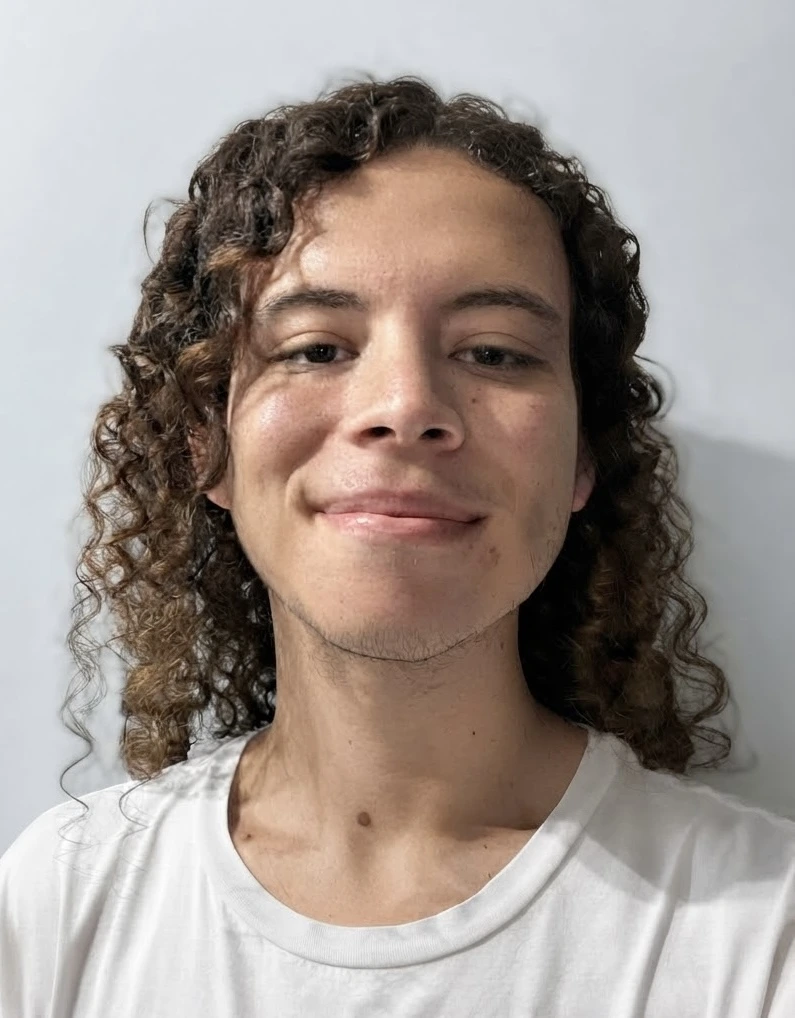
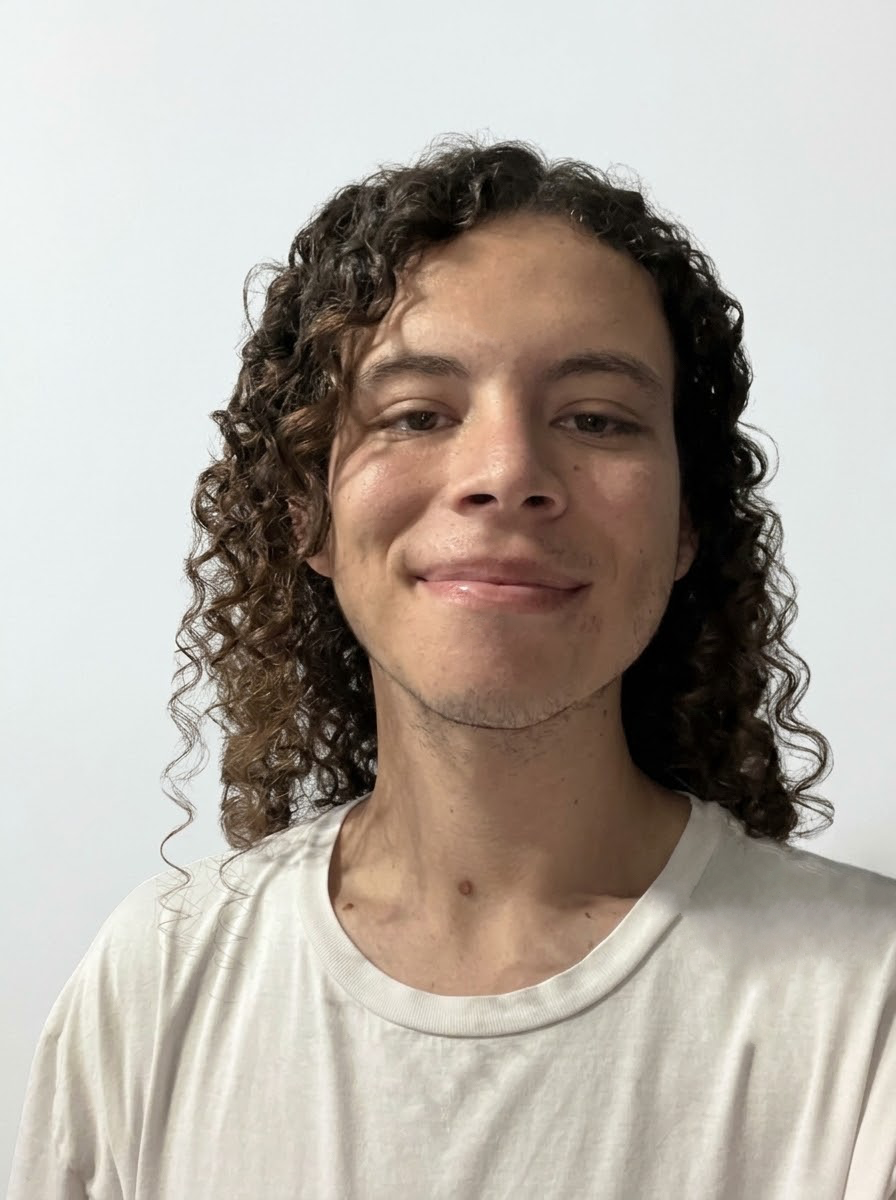
more minor changes

diff --git a/src/scripts/main.js b/src/scripts/main.js
@@ -4,7 +4,7 @@ const content = {
       role: "Ingeniero de Software Junior · Full Stack",
       location: "Alajuela, Costa Rica",
       about: "Sobre mí",
-      aboutText: "Soy una persona apasionada por la tecnología, la música y los deportes, me gusta crear interfaces limpias, aplicaciones mantenibles y resolver problemas. Me gusta trabajar con código claro, buenas prácticas y una experiencia de usuario bien cuidada.",
+      aboutText: "Soy una persona apasionada por la tecnología, la música y los deportes, me gusta crear software y aplicaciones que ayuden a las personas y resolver problemas.",
       technology: "Tecnologías",
       experience: "Experiencia",
       projects: "Proyectos",
@@ -82,7 +82,7 @@ const content = {
       role: "Junior Software Engineer · Full Stack",
       location: "Alajuela, Costa Rica",
       about: "About me",
-      aboutText: "I'm passionate about technology, music and sports; I enjoy building clean interfaces, maintainable applications and solving problems. I like working with clear code, good practices and a well-crafted user experience.",
+      aboutText: "I'm passionate about technology, music and sports; I enjoy building software and applications that help people and solve problems.",
       technology: "Technologies",
       experience: "Experience",
       projects: "Projects",

diff --git a/src/styles/main.css b/src/styles/main.css
@@ -95,10 +95,10 @@ main {
 .avatar {
   display: grid;
   flex: 0 0 auto;
-  width: 100px;
-  height: 100px;
+  width: 116px;
+  height: 116px;
   place-items: center;
-  margin-top: 20px;
+  margin-top: 16px;
   border: 4px solid var(--teal-tint-2);
   border-radius: 999px;
   overflow: hidden;
@@ -116,7 +116,8 @@ main {
   height: 100%;
   border-radius: inherit;
   object-fit: cover;
-  object-position: center 25%;
+  object-position: center 70%;
+  transform: translateX(-5px) scale(1.20);
 }
 
 .eyebrow {
@@ -482,8 +483,8 @@ h2 {
   }
 
   .avatar {
-    width: 78px;
-    height: 78px;
+    width: 90px;
+    height: 90px;
     font-size: 1.7rem;
   }
 
